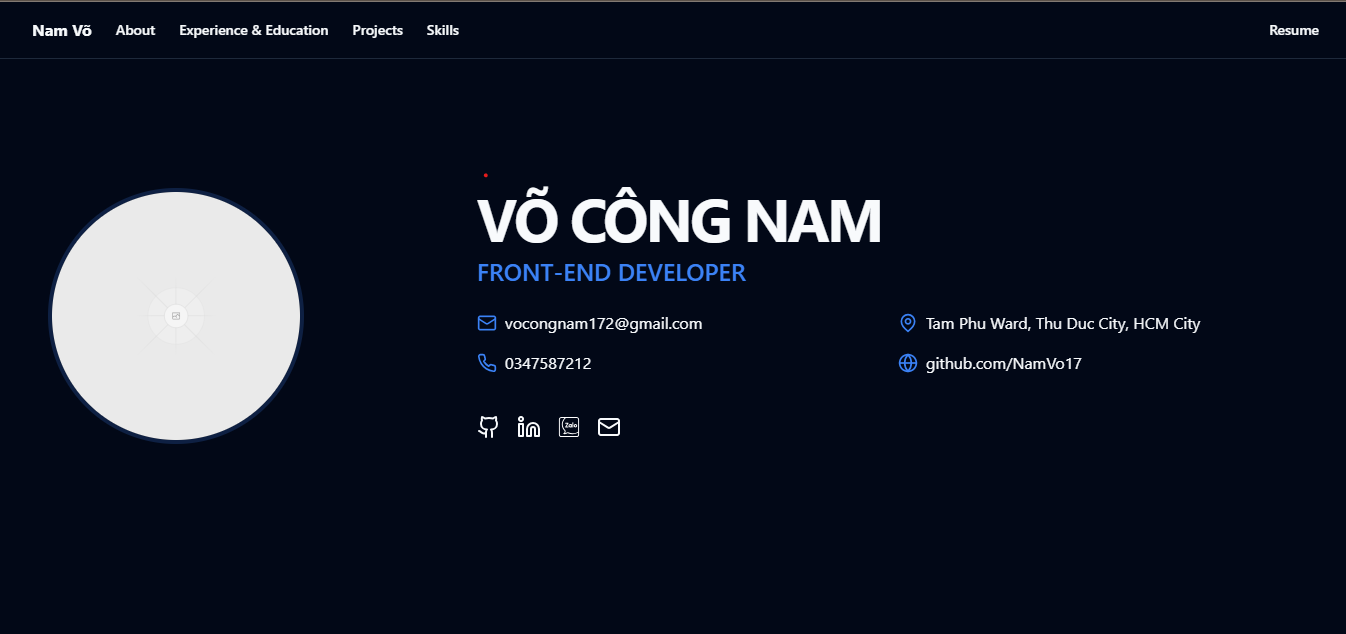
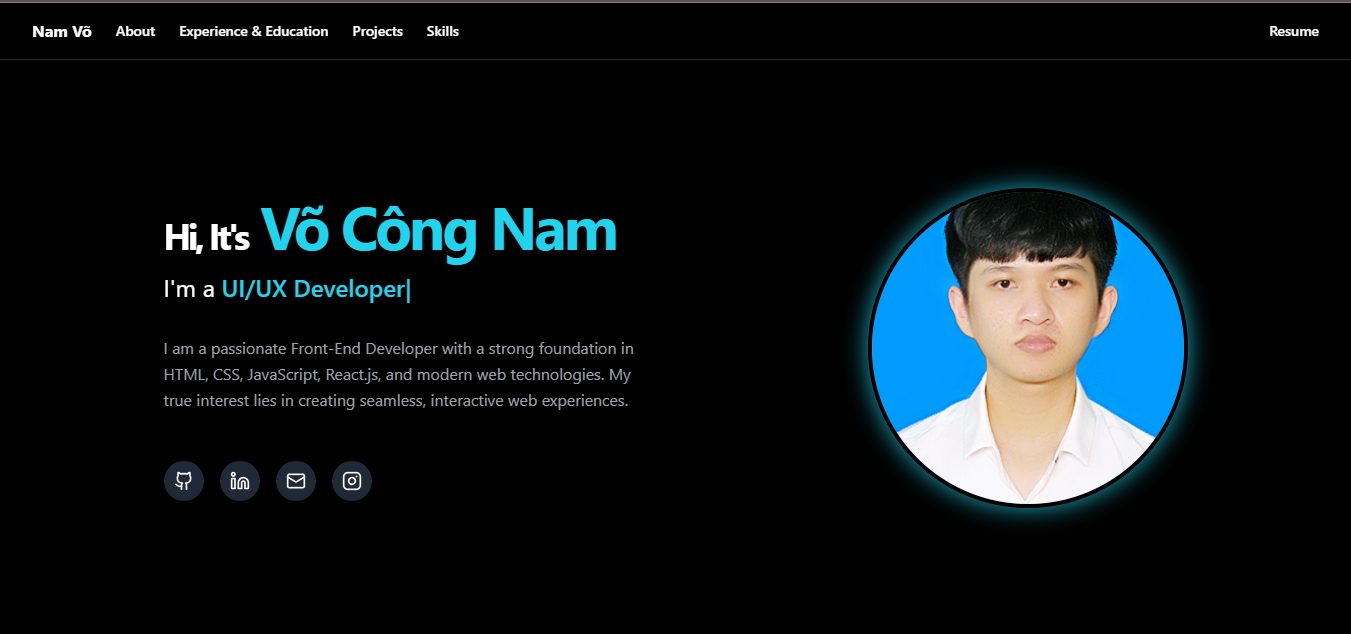
update

Changed region(s): [[0.0312, 0.2697, 0.9049, 0.8391], [0.0, 0.0, 1.0, 0.0599], [0.0, 0.0899, 1.0, 0.1199]]

diff --git a/src/pages/HomePage.js b/src/pages/HomePage.js
@@ -61,7 +61,8 @@ export default function HomePage() {
                 <div className="space-y-8">
                   <div className="space-y-4">
                     <h1 className="text-4xl font-bold tracking-tighter sm:text-5xl md:text-6xl">
-                      Hi, It's <span className="text-cyan-400">Võ Công Nam</span>
+                    <span className="text-2xl sm:text-3xl md:text-4xl">Hi, It's</span> 
+                    <span className="text-cyan-400"> Võ Công Nam</span>                    
                     </h1>
                     <h2 className="text-xl md:text-2xl">
                       I'm a <TypeAnimation words={["Front-End Developer", "Web Developer", "UI/UX Developer"]} />
@@ -221,15 +222,15 @@ export default function HomePage() {
                     <h3 className="text-xl font-bold">
                       Bachelor of Information Systems, Nong Lam University - Ho Chi Minh City
                     </h3>
-                    <span className="text-gray-400">Expected Graduation: August 2025</span>
                   </div>
+                  <span className="flex text-gray-200 italic mb-6">Expected Graduation: August 2025</span>
                   <div className="text-gray-400 space-y-4">
-                    <p>• Relevant coursework: Web Application Development, Database Systems.</p>
+                    <p> Relevant coursework: Web Application Development, Database Systems.</p>
                     <p>
-                      • Thesis on "Designing an E-Commerce Website for Selling Cakes and Tea with Integrated Customer
+                       Thesis on "Designing an E-Commerce Website for Selling Cakes and Tea with Integrated Customer
                       Support Chatbot and Recommendation System".
                     </p>
-                    <ul className="list-disc pl-5 space-y-2">
+                    <ul className="list-disc pl-16 space-y-4">
                       <li>Developed the Front-End using modern UI frameworks (Bootstrap, Tailwind CSS).</li>
                       <li>Implemented a PHP & MySQL back-end for product management and user authentication.</li>
                       <li>
